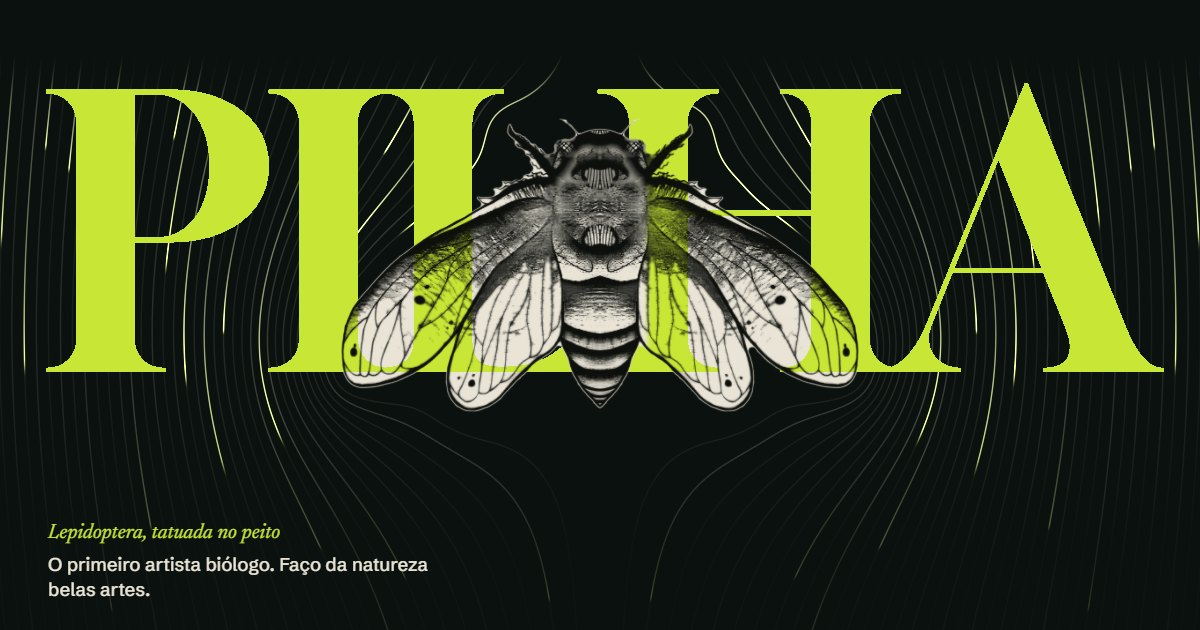
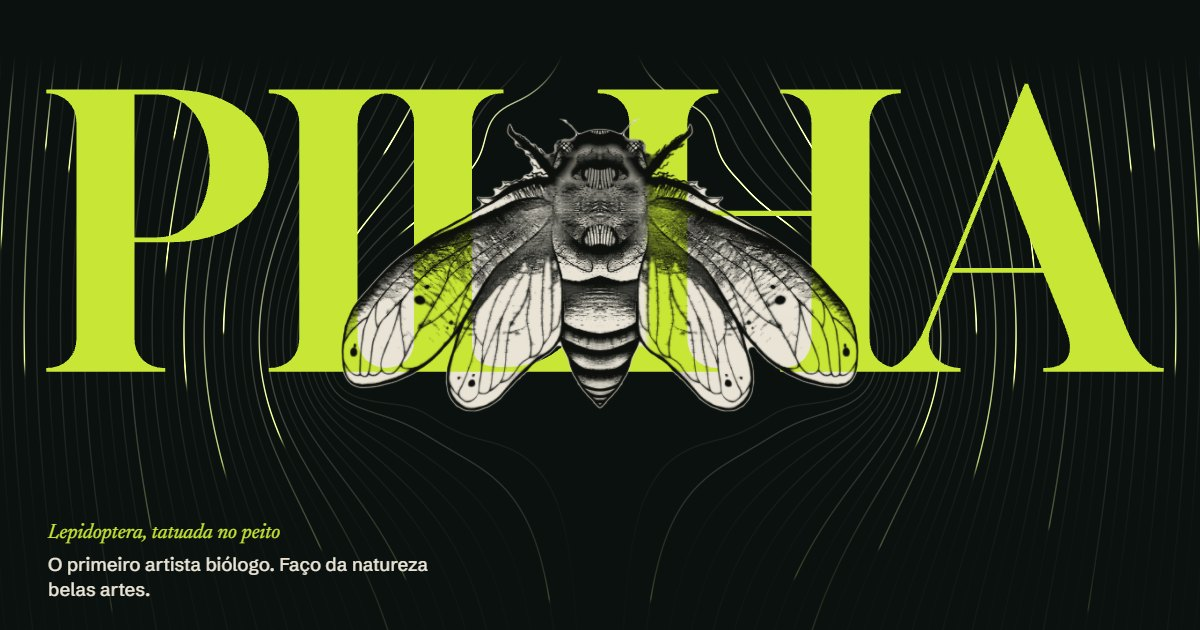
Bordas lisas no nome, cards alinhados e vídeo no molde do Zapa
- Nome do hero sem serrilhado: fundo opaco na textura preserva a suavização
- Cards de Projetos, avaliações e cicatrizadas alinhados pelo topo
- Vídeo da história com moldura, inicia só ao chegar na seção e ligar o som recomeça do início

Changed region(s): [[0.6167, 0.3317, 0.6783, 0.3619], [0.1233, 0.3619, 0.1542, 0.3921]]

diff --git a/assets/css/site.css b/assets/css/site.css
@@ -129,7 +129,7 @@ p{text-wrap:pretty}
 .mais-box{display:flex;justify-content:center;margin-top:clamp(28px,4vw,44px)}
 
 /* projetos */
-.quatro{display:grid;grid-template-columns:repeat(4,minmax(0,1fr));gap:clamp(10px,1.4vw,20px)}
+.quatro{display:grid;grid-template-columns:repeat(4,minmax(0,1fr));gap:clamp(10px,1.4vw,20px);align-items:start}
 .bloco{display:block;width:100%;text-align:left}
 .foto{position:relative;display:block;aspect-ratio:4/5;overflow:hidden;background:var(--noite2)}
 .foto img{width:100%;height:100%;object-fit:cover;transition:transform .9s var(--ease)}
@@ -154,7 +154,7 @@ p{text-wrap:pretty}
 
 /* história: vídeo ao lado e resumo */
 .historia{display:grid;grid-template-columns:minmax(0,5fr) minmax(0,7fr);gap:clamp(32px,6vw,96px);align-items:start}
-.hist-video{position:sticky;top:96px;max-width:400px;width:100%;justify-self:center}
+.hist-video{position:sticky;top:96px;max-width:420px;width:100%;justify-self:center;margin:0;padding:10px;border:1px solid var(--linha-n);background:var(--noite2)}
 .tela-video{position:relative;aspect-ratio:9/16;overflow:hidden;background:var(--noite2)}
 .tela-video video{width:100%;height:100%;object-fit:cover}
 .leg-video{position:absolute;left:10px;right:10px;bottom:68px;text-align:center;font-weight:600;font-size:.98rem;line-height:1.4;pointer-events:none}
@@ -165,7 +165,7 @@ p{text-wrap:pretty}
 .som:active{transform:scale(.97)}
 .som[aria-pressed=true]{background:var(--verde);color:var(--tinta);box-shadow:none}
 .som[aria-pressed=true] svg .on{opacity:1}
-.hist-video figcaption{margin-top:10px;font-size:.92rem;color:var(--txt-n);text-align:center}
+.hist-video figcaption{padding:12px 2px 2px;font-size:.8rem;font-weight:500;line-height:1.35;letter-spacing:.08em;text-transform:uppercase;color:var(--txt-n);text-align:left}
 .hist-tx h2{font-size:clamp(2.5rem,5.4vw,4.8rem);margin-bottom:.45em}
 .hist-tx>p{font-size:clamp(1.05rem,1.35vw,1.2rem);color:var(--txt-n)}
 .hist-tx>p+p{margin-top:1em}
@@ -296,7 +296,7 @@ textarea{min-height:120px;resize:vertical}
   .pares{grid-template-columns:minmax(0,1fr);gap:30px}
   .pares .par:last-child:nth-child(odd){max-width:none}
   .historia{grid-template-columns:minmax(0,1fr)}
-  .hist-video{position:static;max-width:min(100%,340px)}
+  .hist-video{position:static;max-width:min(100%,380px)}
   .hist-tx{text-align:center}
   .hist-mais summary,.hist-corpo{text-align:left}
   .marca b{font-size:1.16rem;letter-spacing:.12em;padding-left:.12em}

diff --git a/assets/js/site.js b/assets/js/site.js
@@ -83,6 +83,8 @@
     var cap = m.actualBoundingBoxAscent / 200 * f, lim = h * .46;
     if (cap > lim) { f *= lim / cap; cap = lim; }
     x.font = '400 ' + (f * dpr) + 'px Gloock, Georgia, serif';
+    /* fundo preto opaco: sem ele a suavização das bordas se perde ao virar textura */
+    x.fillStyle = '#000'; x.fillRect(0, 0, c.width, c.height);
     x.textAlign = 'center'; x.fillStyle = '#fff';
     x.fillText('PILHA', c.width / 2, (Math.max(82, h * .105) + cap) * dpr);
     glH.nome(c);
@@ -180,7 +182,13 @@
 
   /* vídeo da história: mudo com legenda, som por escolha */
   var hv = $('#hist-v'), som = $('#som'), lv = $('#leg-video'), segs = null, sI = -1;
-  videoNaTela(hv);
+  /* toca mudo, com legenda, só quando chega na seção */
+  var comSom = false;
+  function tocaHist() { var p = hv.play(); if (p && p.catch) p.catch(function () {}); }
+  new IntersectionObserver(function (e) {
+    if (e[0].isIntersecting) { if (hv.preload === 'none') hv.preload = 'auto'; if (!calmo.matches || comSom) tocaHist(); }
+    else hv.pause();
+  }, { threshold: .35 }).observe(hv);
   fetch('assets/dados/historia.json').then(function (r) { return r.json(); }).then(function (j) { segs = j; }).catch(function () {});
   hv.addEventListener('timeupdate', function () {
     if (!segs) return;
@@ -190,11 +198,17 @@
     lv.textContent = '';
     if (k >= 0) { var sp = d.createElement('span'); sp.textContent = segs[k][2]; lv.appendChild(sp); }
   });
-  function alternaSom() {
-    var ligar = hv.muted; hv.muted = !ligar; som.setAttribute('aria-pressed', ligar);
-    $('span', som).textContent = ligar ? 'Som ligado' : 'Ouvir com som';
-    if (ligar) { var p = hv.play(); if (p && p.catch) p.catch(function () {}); }
+  function semSom() {
+    comSom = false; hv.muted = true; hv.loop = true;
+    som.setAttribute('aria-pressed', 'false'); $('span', som).textContent = 'Ouvir com som';
   }
+  /* ligar o som sempre recomeça do início; ao terminar, volta a tocar mudo */
+  function alternaSom() {
+    if (comSom) return semSom();
+    comSom = true; hv.muted = false; hv.currentTime = 0; hv.loop = false; tocaHist();
+    som.setAttribute('aria-pressed', 'true'); $('span', som).textContent = 'Tirar o som';
+  }
+  hv.addEventListener('ended', function () { semSom(); tocaHist(); });
   som.addEventListener('click', alternaSom);
 
   /* manifesto: as palavras escurecem com a rolagem */

diff --git a/index.html b/index.html
@@ -560,7 +560,7 @@
         <p class="leg-video" id="leg-video" aria-hidden="true"></p>
         <button class="som" id="som" type="button" aria-pressed="false"><svg viewBox="0 0 24 24" fill="currentColor" aria-hidden="true"><path d="M3 9v6h4l6 5V4L7 9H3z"/><path class="on" d="M16 8.5a5 5 0 0 1 0 7M18.5 6a8.500 8.500 0 0 1 0 12" fill="none" stroke="currentColor" stroke-width="2"/></svg><span>Ouvir com som</span></button>
       </div>
-      <figcaption>Pilha conta como tudo começou, em vídeo de 2020</figcaption>
+      <figcaption>Contada por ele · vídeo de 2020</figcaption>
     </figure>
     <div class="hist-tx entra">
       <h2>O falcão que saiu da gaiola</h2>

diff --git a/tools/modelo.html b/tools/modelo.html
@@ -148,7 +148,7 @@
         <p class="leg-video" id="leg-video" aria-hidden="true"></p>
         <button class="som" id="som" type="button" aria-pressed="false"><svg viewBox="0 0 24 24" fill="currentColor" aria-hidden="true"><path d="M3 9v6h4l6 5V4L7 9H3z"/><path class="on" d="M16 8.5a5 5 0 0 1 0 7M18.5 6a8.500 8.500 0 0 1 0 12" fill="none" stroke="currentColor" stroke-width="2"/></svg><span>Ouvir com som</span></button>
       </div>
-      <figcaption>Pilha conta como tudo começou, em vídeo de 2020</figcaption>
+      <figcaption>Contada por ele · vídeo de 2020</figcaption>
     </figure>
     <div class="hist-tx entra">
       <h2>O falcão que saiu da gaiola</h2>
